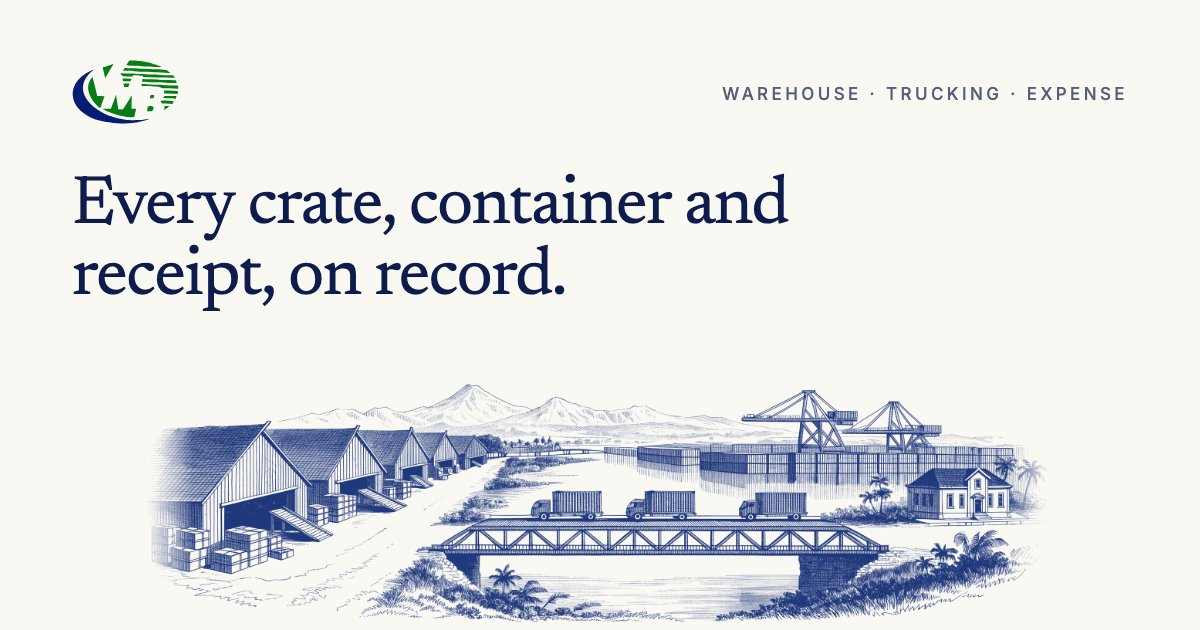
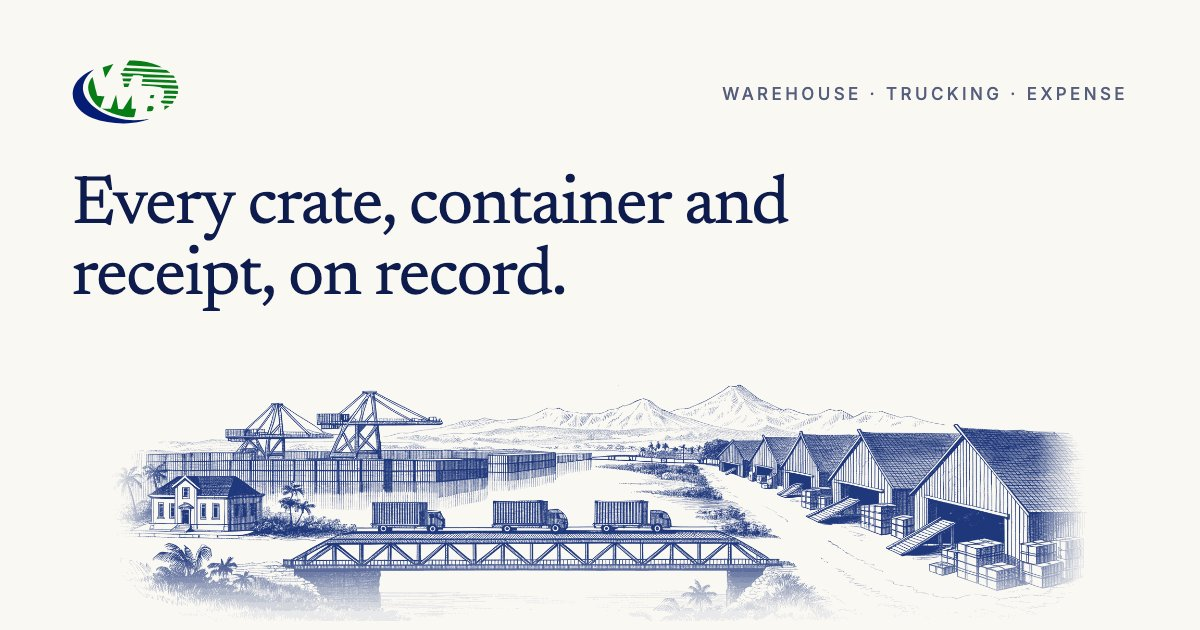
feat(auth): widen the landscape plate and tighten the footer strip (#219)
- landscape mask: the current engraving mirrored (cranes clear of the form sheet), 8% of the foreground cut, sides and bottom faded in the art, padded to 5:1
- prepare-etching.py: add --flip, --crop-top, --crop-bottom, --fade-bottom and --pad-to
- EtchedScene: size the band from --plate-ratio (5) and --plate-core-ratio (4) so no end shows at desktop widths and tall screens grow toward the 44vh cap; drop the CSS bottom fade
- AuthShell: footer top padding 2.5rem to 1.25rem on desktop, reserve 4.5rem to 3.25rem (5.5rem to 4.25rem on touch)
- etched-scene.test.ts: --plate-ratio must match the shipped mask
- og-image.jpg: rebuilt from the new mask

Changed region(s): [[0.0925, 0.6032, 0.925, 0.9952]]

diff --git a/apps/web/src/lib/components/EtchedScene.svelte b/apps/web/src/lib/components/EtchedScene.svelte
@@ -27,20 +27,21 @@
   }
 
   .etched-scene {
-    /* Width ÷ height of the trimmed plate (vmb-etching-*.webp, 4096 × 1106). */
-    --plate-ratio: 3.703;
+    /* Width ÷ height of the plate (vmb-etching-*.webp), and of its middle, where the scene is. */
+    --plate-ratio: 5;
+    --plate-core-ratio: 4;
     --etching-image: var(--etching-small);
-    height: clamp(7rem, calc(100vw / var(--plate-ratio)), 22vh);
+    height: clamp(7rem, calc(100vw / var(--plate-core-ratio)), 22vh);
     /*
-     * The plate is fitted to the band's height, never cropped vertically: on a
-     * band wider than the plate it ends in its own baked-in side fade, on a
-     * narrower one it bleeds off both edges.
+     * The plate is fitted to the band's height, never cropped vertically. Its
+     * sparse sides bleed off the viewport; the band stays short enough that
+     * the middle, where the scene is, always fits the width.
      *
-     * The full-box gradients (reveal, then the optional bottom fade set by
-     * `--etched-scene-fade`) must sit above the plate. Chrome snaps the
+     * The full-box reveal gradient must sit above the plate. Chrome snaps the
      * plate's tile to device pixels, and `intersect` only masks where the top
      * layer draws, so with the plate on top a fractional band edge (e.g. at
-     * 1.5× zoom) left a sliver of bare gradient: a faint line (#202).
+     * 1.5× zoom) left a sliver of bare gradient: a faint line (#202). The
+     * plate's bottom fades into the paper in the art itself (#219).
      */
     mask-image:
       linear-gradient(
@@ -48,14 +49,8 @@
         #000 calc(var(--etch-reveal) - 15%),
         transparent var(--etch-reveal)
       ),
-      linear-gradient(
-        to bottom,
-        #000 calc(100% - var(--etched-scene-fade, 0%)),
-        transparent calc(100% + 1px)
-      ),
       var(--etching-image);
     mask-size:
-      100% 100%,
       100% 100%,
       auto 100%;
     mask-position: center bottom;
@@ -66,15 +61,34 @@
 
   @media (min-width: 40rem) {
     .etched-scene {
-      height: clamp(9rem, calc(100vw / var(--plate-ratio)), 30vh);
+      height: clamp(9rem, calc(100vw / var(--plate-core-ratio)), 30vh);
     }
   }
 
   @media (min-width: 64rem) {
     .etched-scene {
       --etching-image: var(--etching-large);
-      /* A reserve (the footer strip below the plate) comes off the height, so the plate's top edge stays put. */
-      height: calc(min(calc(100vw / var(--plate-ratio)), 44vh) - var(--etched-scene-reserve, 0px));
+      /*
+       * The reserve (the footer strip below the plate) comes off the height,
+       * so the plate's top edge stays clear of the brand line and flock; the
+       * band never gets narrower than the viewport, so no end shows.
+       */
+      height: clamp(
+        calc(100vw / var(--plate-ratio)),
+        calc(min(calc(100vw / var(--plate-core-ratio)), 44vh) - var(--etched-scene-reserve, 0px)),
+        calc(100vw / var(--plate-core-ratio))
+      );
+    }
+  }
+
+  /* Tall screens have room above the plate: it grows toward the cap and bleeds off the sides. */
+  @media (min-width: 64rem) and (min-height: 68rem) {
+    .etched-scene {
+      height: clamp(
+        calc(100vw / var(--plate-ratio)),
+        calc(44vh - var(--etched-scene-reserve, 0px)),
+        calc(100vw / var(--plate-core-ratio))
+      );
     }
   }
 

diff --git a/apps/web/src/lib/components/AuthShell.svelte b/apps/web/src/lib/components/AuthShell.svelte
@@ -82,9 +82,9 @@
     </div>
   </main>
 
-  <!-- The plate's bottom fades into the paper; the strip's top padding is the 2.5rem clear zone below it. The reserve fits 24px links, or 44px on touch. -->
+  <!-- The plate's bottom fades into the paper; the strip's top padding is the clear zone below the plate's last visible ink. The reserve fits 24px links, or 44px on touch. -->
   <div
-    class="relative [--etched-scene-fade:20%] lg:[--etched-scene-reserve:4.5rem] lg:pointer-coarse:[--etched-scene-reserve:5.5rem]"
+    class="relative lg:[--etched-scene-reserve:3.25rem] lg:pointer-coarse:[--etched-scene-reserve:4.25rem]"
   >
     <EtchedScene class="-mt-6 lg:absolute lg:inset-x-0 lg:bottom-full lg:mt-0" />
 
@@ -92,7 +92,7 @@
       class="mx-auto w-full max-w-7xl px-6 sm:px-10 lg:min-h-(--etched-scene-reserve) lg:px-16"
     >
       <div
-        class="text-muted-foreground flex flex-col items-center gap-y-1 pt-10 pb-6 text-center text-xs lg:flex-row lg:justify-between lg:gap-x-6 lg:pb-0"
+        class="text-muted-foreground flex flex-col items-center gap-y-1 pt-10 pb-6 text-center text-xs lg:flex-row lg:justify-between lg:gap-x-6 lg:pt-5 lg:pb-0"
       >
         <p class="whitespace-nowrap">© {copyrightYear} PT. Vifiera Minova Bersaudara</p>
         <p class="flex flex-wrap justify-center gap-x-5 gap-y-1">

diff --git a/apps/web/src/lib/components/etched-scene.test.ts b/apps/web/src/lib/components/etched-scene.test.ts
@@ -1,0 +1,23 @@
+import { readFileSync } from "node:fs";
+import { fileURLToPath } from "node:url";
+import { describe, expect, it } from "vitest";
+
+const read = (path: string) => readFileSync(fileURLToPath(new URL(path, import.meta.url)));
+
+// Canvas size from a WebP's VP8X header (cwebp writes one for any image with alpha).
+function webpSize(file: Buffer) {
+  expect(file.toString("ascii", 12, 16)).toBe("VP8X");
+  return { width: file.readUIntLE(24, 3) + 1, height: file.readUIntLE(27, 3) + 1 };
+}
+
+// EtchedScene fits the plate to the band's height and sizes the band from
+// `--plate-ratio`, so a stale ratio crops the plate or shows its ends (#219).
+describe("EtchedScene plate ratio", () => {
+  const scene = read("./EtchedScene.svelte").toString();
+  const ratio = Number(scene.match(/--plate-ratio:\s*([\d.]+);/)?.[1]);
+
+  it.each(["vmb-etching-2400.webp", "vmb-etching-1200.webp"])("matches %s", (name) => {
+    const { width, height } = webpSize(read(`../assets/auth/${name}`));
+    expect(ratio).toBeCloseTo(width / height, 2);
+  });
+});

diff --git a/docs/design/etched-login/prepare-etching.py b/docs/design/etched-login/prepare-etching.py
@@ -6,8 +6,8 @@ token, so the source only needs to say *where* ink is: this writes black RGB
 with the ink density in the alpha channel. Paper becomes transparent, so the
 same file works on the light paper and the dark navy scheme.
 
-Usage: prepare-etching.py <source.png> <out-dir> [--name vmb-etching] [--trim] [--trim-x] [--fade-sides 0.06]
-                          [--white 212] [--black 40]
+Usage: prepare-etching.py <source.png> <out-dir> [--name vmb-etching] [--trim] [--trim-x]
+                          [--crop-top 0.1] [--crop-bottom 0.1] [--flip] [--fade-sides 0.06] [--fade-bottom 0.3] [--pad-to 5] [--white 212] [--black 40]
 
 Writes <name>-2400.webp and <name>-1200.webp (needs `cwebp`).
 """
@@ -29,7 +29,12 @@ parser.add_argument("--quality", type=int, default=60)
 parser.add_argument("--alpha-quality", type=int, default=50)
 parser.add_argument("--trim", action="store_true", help="crop empty paper above and below the ink")
 parser.add_argument("--trim-x", action="store_true", help="also crop empty paper left and right of the ink")
+parser.add_argument("--crop-top", type=float, default=0, help="fraction of the (trimmed) height to cut from the top")
+parser.add_argument("--crop-bottom", type=float, default=0, help="fraction of the (trimmed) height to cut from the bottom")
+parser.add_argument("--flip", action="store_true", help="mirror the art left to right")
 parser.add_argument("--fade-sides", type=float, default=0, help="fraction of width to fade out at each side")
+parser.add_argument("--fade-bottom", type=float, default=0, help="fraction of height to fade out at the bottom")
+parser.add_argument("--pad-to", type=float, default=0, help="add blank paper at both sides to reach this width:height ratio")
 args = parser.parse_args()
 
 gray = Image.open(args.source).convert("L")
@@ -49,6 +54,13 @@ if args.trim_x:
     pad = alpha.height // 50
     alpha = alpha.crop((max(inked[0] - pad, 0), 0, min(inked[-1] + pad, alpha.width), alpha.height))
 
+if args.crop_top or args.crop_bottom:
+    # Cut art that isn't needed (foreground tufts, sky) so the rest is drawn larger for the same band height.
+    alpha = alpha.crop((0, round(alpha.height * args.crop_top), alpha.width, round(alpha.height * (1 - args.crop_bottom))))
+
+if args.flip:
+    alpha = alpha.transpose(Image.Transpose.FLIP_LEFT_RIGHT)
+
 if args.fade_sides:
     # Bake the side fade into the art, so it ends softly wherever CSS places it.
     ramp = max(round(alpha.width * args.fade_sides), 1)
@@ -58,6 +70,22 @@ if args.fade_sides:
         fade.paste(level, (x, 0, x + 1, alpha.height))
         fade.paste(level, (alpha.width - 1 - x, 0, alpha.width - x, alpha.height))
     alpha = Image.composite(alpha, Image.new("L", alpha.size, 0), fade)
+
+if args.fade_bottom:
+    # Thin the foreground into bare paper, so the plate meets the footer strip without an edge.
+    ramp = max(round(alpha.height * args.fade_bottom), 1)
+    fade = Image.new("L", alpha.size, 255)
+    for y in range(ramp):
+        fade.paste(round(255 * (y / ramp) ** 1.5), (0, alpha.height - 1 - y, alpha.width, alpha.height - y))
+    alpha = Image.composite(alpha, Image.new("L", alpha.size, 0), fade)
+
+if args.pad_to:
+    # Blank paper at both ends, so the plate can bleed off narrow screens without cropping the scene.
+    width = round(alpha.height * args.pad_to)
+    if width > alpha.width:
+        padded = Image.new("L", (width, alpha.height), 0)
+        padded.paste(alpha, ((width - alpha.width) // 2, 0))
+        alpha = padded
 
 print(f"mask {alpha.width}x{alpha.height} (ratio {alpha.width / alpha.height:.3f})")
 
